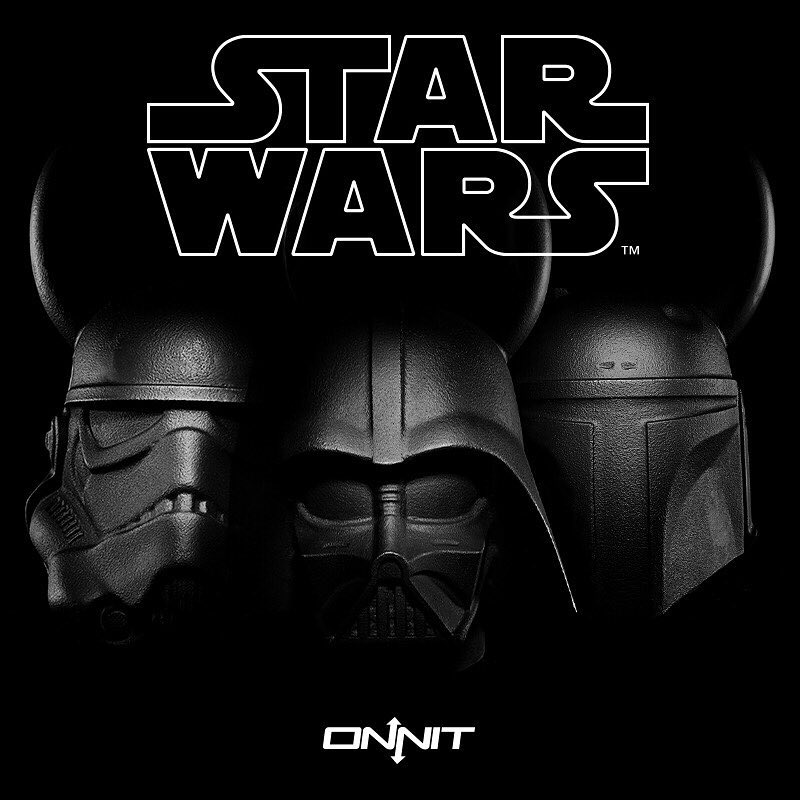
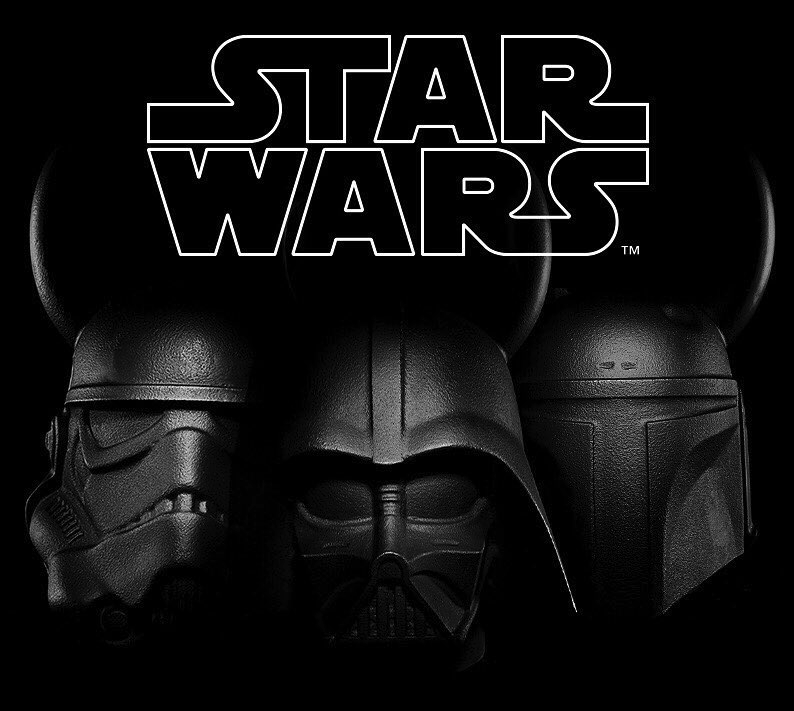
Background image renders, correct toggling on cards when its players turn

Changed region(s): [[0.1814, 0.0309, 0.9673, 0.9592], [0.0302, 0.2166, 0.3023, 0.8664], [0.937, 0.2166, 0.9975, 0.4332]]

diff --git a/src/components/Cards.js b/src/components/Cards.js
@@ -40,7 +40,8 @@ class Cards extends React.Component {
   //NEW FETCH CALL AFTER YOU PRESS THE NEXT ROUND BUTTON
   handleNextRound (){
     this.setState({
-      outcome : null
+      outcome : null,
+      playerTurn : true
     }, () => this.props.newFetch() )
   }
 
@@ -51,12 +52,12 @@ class Cards extends React.Component {
   if (Number(a) >= Number(b))  {
      this.increasePlayerCounter()
      console.log(this.state.playerCounter)
-     return "You Won This Round!";
+     return "The Force is Strong In You....You Won This Round!";
   }
    else {
     this.increaseComputerCounter()
     console.log(this.state.computerCounter)
-    return "You lost This Round!";
+    return "The Darkside Is Too Powerful Here...You lost This Round!";
    }
   }
 
@@ -92,7 +93,7 @@ class Cards extends React.Component {
             passengers={this.props.playerCard.passengers} shipItem={this.props.playerCard}
             name={this.props.playerCard.name}
           />
-          <p>{this.state.playerCounter}</p>
+          <p className="counters__text" >Player Counter: {this.state.playerCounter}</p>
        </div>
        {this.state.outcome && <div>{this.state.outcome} <button onClick={this.handleNextRound} className="nextround__button">Next Round!</button></div>}
 
@@ -103,7 +104,7 @@ class Cards extends React.Component {
             passengers={this.props.computerCard.passengers} shipItem={this.props.computerCard}
           name={this.props.computerCard.name}
           />
-          <p>{this.state.computerCounter}</p>
+          <p className="counters__text" >Computer Counter: {this.state.computerCounter}</p>
         </div>
 
 

diff --git a/src/styles/components/app.scss b/src/styles/components/app.scss
@@ -1,14 +1,15 @@
-body {
+html {
   background-color: black;
-  // background-image: image("StarWars.jpg");
-  // font-family: "Starjhol";
-  // src: url(/Users/tonygriffin/workspace/pick-your-own-project/src/components/boba-fonts_star-jedi/Starjhol.ttf);
-  // background-image: url("StarWars.png");
-  // background-image: image(/Users/tonygriffin/workspace/pick-your-own-project/StarWars.jpg);
+  background: url(/Users/tonygriffin/workspace/pick-your-own-project/src/components/StarWars.png);
   background-size: cover;
   background-repeat: no-repeat;
   background-position: center;
   height:100%;
+  width: 100%;
+}
+
+body {
+
   color: white;
 }
 
@@ -37,6 +38,10 @@ body {
 
 .counter__container {
   background-color: red;
+}
+
+.counters__text {
+  color: red;
 }
 
 .computercard__container {

diff --git a/index.html b/index.html
@@ -4,6 +4,7 @@
     <meta charset="UTF-8" />
     <meta name="viewport" content="width=device-width, initial-scale=1, shrink-to-fit=no">
     <link rel="stylesheet" href="https://maxcdn.bootstrapcdn.com/bootstrap/4.0.0/css/bootstrap.min.css" integrity="sha384-Gn5384xqQ1aoWXA+058RXPxPg6fy4IWvTNh0E263XmFcJlSAwiGgFAW/dAiS6JXm" crossorigin="anonymous">
+    <!-- <link rel="stylesheet" href="app.scss"> -->
     <!-- <link rel="stylesheet" href="/Users/tonygriffin/workspace/pick-your-own-project/src/components/boba-fonts_star-jedi/Starjhol.ttf" -->
     <title>Star Wars Top Trumps</title>
   </head>
